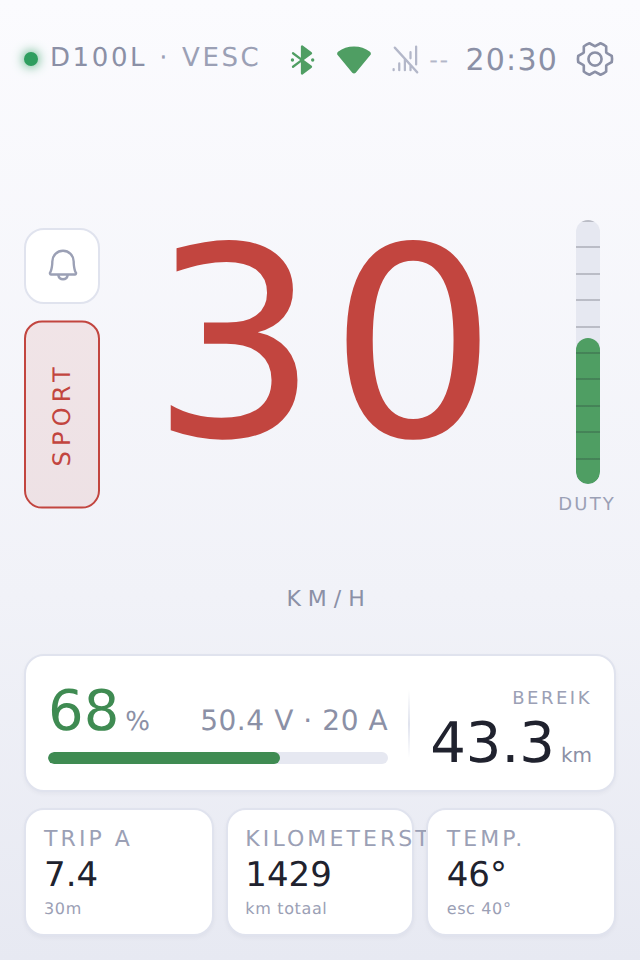
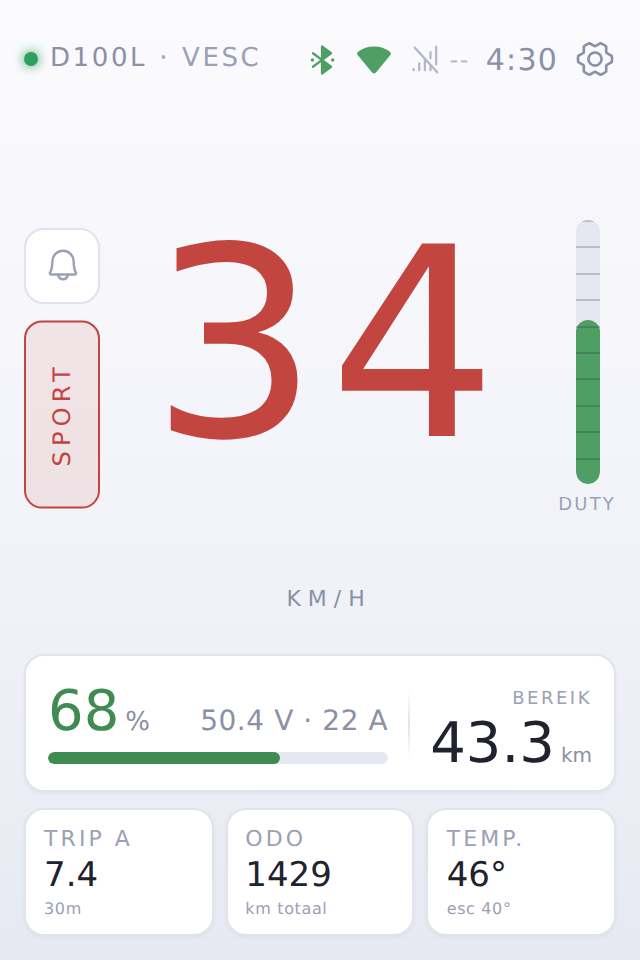
Kilometerstand wordt ODO, in alle vier de talen
Het label liep over de rand van zijn kaart. Die kaarten zijn 95 px breed en
op 11 px met .14em spatiëring past daar zo'n negen tekens in; "Kilometerstand"
is er veertien en "Compteur" viel ook al net buiten.

ODO is in alle vier de talen hetzelfde en past overal. De opmaak, de vier
vertalingen, de schermafdrukken en het stukje in de README dat het overlopen
nog uitlegde gaan mee.

diff --git a/pi/public/i18n.js b/pi/public/i18n.js
@@ -26,7 +26,7 @@ var T = {
   nl: {
     settings: 'Instellingen', connections: 'Verbindingen', limits: 'Temperatuurlimieten',
     language: 'Taal', accent: 'Accentkleur', units: 'Eenheden', power: 'Uitschakelen', tapToWake: 'Tik om te starten', reboot: 'Herstarten', shutdown: 'Uitschakelen', cancel: 'Annuleren', rebooting: 'Herstarten…', metric: 'Metrisch', imperial: 'Imperiaal', avgUse: 'Ø Verbruik', notifications: 'Meldingen', clear: 'Wissen', noAlerts: 'Geen meldingen — alles in orde.',
-    trip: 'Trip A', odo: 'Kilometerstand', temps: 'Temp.', kmTotal: 'totaal', range: 'Bereik', charging: 'Opladen', chargeAmp: 'Laadstroom', timeLeft: 'Resterend', gainRate: 'Winst', chargeFull: 'Volledig geladen', tapClose: 'Tik om te sluiten',
+    trip: 'Trip A', odo: 'ODO', temps: 'Temp.', kmTotal: 'totaal', range: 'Bereik', charging: 'Opladen', chargeAmp: 'Laadstroom', timeLeft: 'Resterend', gainRate: 'Winst', chargeFull: 'Volledig geladen', tapClose: 'Tik om te sluiten',
     speedDetail: 'Snelheidsmeting', current: 'Huidig', topSpeed: 'Maximum', avgSpeed: 'Gemiddeld', holdToReset: 'Resetten', releaseToReset: 'Loslaten annuleert…',
     scan: 'Scan', scanning: 'Zoeken…', connected: 'Verbonden', strong: 'sterk', medium: 'matig', weak: 'zwak', paired: 'gekoppeld', nearby: 'dichtbij', audio: 'audio',
     motor: 'Motor', controller: 'VESC / controller', battery: 'Accu', now: 'Nu',
@@ -42,7 +42,7 @@ var T = {
   en: {
     settings: 'Settings', connections: 'Connections', limits: 'Temperature limits',
     language: 'Language', accent: 'Accent colour', units: 'Units', power: 'Power off', tapToWake: 'Tap to wake', reboot: 'Reboot', shutdown: 'Shutdown', cancel: 'Cancel', rebooting: 'Rebooting…', metric: 'Metric', imperial: 'Imperial', avgUse: 'Ø Use', notifications: 'Notifications', clear: 'Clear', noAlerts: 'No faults — all systems nominal.',
-    trip: 'Trip A', odo: 'Odometer', temps: 'Temps', kmTotal: 'total', range: 'Range', charging: 'Charging', chargeAmp: 'Charge current', timeLeft: 'Time left', gainRate: 'Gain', chargeFull: 'Fully charged', tapClose: 'Tap to close',
+    trip: 'Trip A', odo: 'ODO', temps: 'Temps', kmTotal: 'total', range: 'Range', charging: 'Charging', chargeAmp: 'Charge current', timeLeft: 'Time left', gainRate: 'Gain', chargeFull: 'Fully charged', tapClose: 'Tap to close',
     speedDetail: 'Speed readout', current: 'Current', topSpeed: 'Top speed', avgSpeed: 'Average', holdToReset: 'Reset', releaseToReset: 'Release cancels…',
     scan: 'Scan', scanning: 'Scanning…', connected: 'Connected', strong: 'strong', medium: 'fair', weak: 'weak', paired: 'paired', nearby: 'nearby', audio: 'audio',
     motor: 'Motor', controller: 'VESC / controller', battery: 'Battery', now: 'Now',
@@ -59,7 +59,7 @@ var T = {
     settings: 'Réglages', connections: 'Connexions', limits: 'Limites de température',
     language: 'Langue', accent: 'Couleur d’accent', units: 'Unités', power: 'Éteindre', tapToWake: 'Toucher pour démarrer', reboot: 'Redémarrer', shutdown: 'Éteindre', cancel: 'Annuler', rebooting: 'Redémarrage…', metric: 'Métrique', imperial: 'Impérial', avgUse: 'Ø Conso.', notifications: 'Notifications', clear: 'Effacer',
     noAlerts: 'Aucun défaut — tout est normal.',
-    trip: 'Trajet A', odo: 'Compteur', temps: 'Temp.', kmTotal: 'au total', range: 'Autonomie', charging: 'Charge', chargeAmp: 'Courant de charge', timeLeft: 'Restant', gainRate: 'Gain', chargeFull: 'Charge complète', tapClose: 'Toucher pour fermer',
+    trip: 'Trajet A', odo: 'ODO', temps: 'Temp.', kmTotal: 'au total', range: 'Autonomie', charging: 'Charge', chargeAmp: 'Courant de charge', timeLeft: 'Restant', gainRate: 'Gain', chargeFull: 'Charge complète', tapClose: 'Toucher pour fermer',
     speedDetail: 'Mesure de vitesse', current: 'Actuelle', topSpeed: 'Maximale', avgSpeed: 'Moyenne', holdToReset: 'Réinitialiser', releaseToReset: 'Relâcher annule…',
     scan: 'Scan', scanning: 'Recherche…', connected: 'Connecté', strong: 'fort', medium: 'moyen', weak: 'faible', paired: 'appairé', nearby: 'à proximité', audio: 'audio',
     motor: 'Moteur', controller: 'VESC / contrôleur', battery: 'Batterie', now: 'Actuel',
@@ -76,7 +76,7 @@ var T = {
     settings: 'Einstellungen', connections: 'Verbindungen', limits: 'Temperaturgrenzen',
     language: 'Sprache', accent: 'Akzentfarbe', units: 'Einheiten', power: 'Ausschalten', tapToWake: 'Tippen zum Starten', reboot: 'Neustart', shutdown: 'Ausschalten', cancel: 'Abbrechen', rebooting: 'Neustart…', metric: 'Metrisch', imperial: 'Imperial', avgUse: 'Ø Verbrauch', notifications: 'Meldungen', clear: 'Löschen',
     noAlerts: 'Keine Fehler — alles in Ordnung.',
-    trip: 'Trip A', odo: 'Kilometerstand', temps: 'Temp.', kmTotal: 'gesamt', range: 'Reichweite', charging: 'Laden', chargeAmp: 'Ladestrom', timeLeft: 'Restzeit', gainRate: 'Zuwachs', chargeFull: 'Voll geladen', tapClose: 'Tippen zum Schließen',
+    trip: 'Trip A', odo: 'ODO', temps: 'Temp.', kmTotal: 'gesamt', range: 'Reichweite', charging: 'Laden', chargeAmp: 'Ladestrom', timeLeft: 'Restzeit', gainRate: 'Zuwachs', chargeFull: 'Voll geladen', tapClose: 'Tippen zum Schließen',
     speedDetail: 'Geschwindigkeitsmessung', current: 'Aktuell', topSpeed: 'Höchstwert', avgSpeed: 'Durchschnitt', holdToReset: 'Zurücksetzen', releaseToReset: 'Loslassen bricht ab…',
     scan: 'Scan', scanning: 'Suche…', connected: 'Verbunden', strong: 'stark', medium: 'mittel', weak: 'schwach', paired: 'gekoppelt', nearby: 'in der Nähe', audio: 'Audio',
     motor: 'Motor', controller: 'VESC / Controller', battery: 'Akku', now: 'Jetzt',

diff --git a/pi/public/theme.css b/pi/public/theme.css
@@ -206,9 +206,10 @@ body[data-theme="night"] #modes .mode[data-mode="eco"].on{border-color:#4f9e63;b
   padding:8px 9px;box-shadow:var(--shadow);
   display:flex;flex-direction:column;min-width:0;
 }
-/* Geen afkapping: "KILOMETERSTAND" past niet in een kaart van 95 px en loopt
-   in het ontwerp gewoon een stukje over de rand. Dat is daar een keuze — het
-   woord blijft leesbaar en de kaartrand blijft waar hij hoort. */
+/* Geen afkapping. De kaarten zijn 95 px breed, dus er past ongeveer negen
+   tekens in dit label — vandaar ODO en niet "Kilometerstand". Loopt er toch
+   eens iets over de rand, zoals "Ø VERBRUIK" op de trip-kaart, dan is dat
+   beter dan een beletselteken: het woord blijft leesbaar. */
 #cards .card .micro{font-size:11px;letter-spacing:.14em}
 #cards .big{font-size:17px;line-height:1.1;font-variant-numeric:tabular-nums;margin-top:3px}
 #cards .sub{font-size:8px;color:var(--faint);margin-top:2px;letter-spacing:.04em}

diff --git a/pi/public/index.html b/pi/public/index.html
@@ -124,7 +124,7 @@
         <span class="sub" id="tripsub">0m</span>
       </button>
       <div class="card">
-        <span class="micro" data-t="odo">Kilometerstand</span>
+        <span class="micro" data-t="odo">ODO</span>
         <span class="big" id="odo">0</span>
         <span class="sub"><span id="odounit">km</span> <span data-t="kmTotal">totaal</span></span>
       </div>

diff --git a/pi/tools/page.html b/pi/tools/page.html
@@ -78,7 +78,7 @@
         <span class="sub" id="tripsub">0m</span>
       </button>
       <div class="card">
-        <span class="micro" data-t="odo">Kilometerstand</span>
+        <span class="micro" data-t="odo">ODO</span>
         <span class="big" id="odo">0</span>
         <span class="sub"><span id="odounit">km</span> <span data-t="kmTotal">totaal</span></span>
       </div>

diff --git a/pi/README.md b/pi/README.md
@@ -430,10 +430,11 @@ design and are worth knowing before you move something:
   off the screen. That is exactly what happened the first time.
 - **The keys** are ten per row on 296 px, so about 26 px wide, and 52 px tall.
   Narrow, but there's height to spare and you aim with your thumb vertically.
-- **KILOMETERSTAND** doesn't fit in a card of 95 px and runs over the edge a
-  little. That's in the design too, and it's the better of the two options —
-  clipping it with an ellipsis costs you the word, running over costs you
-  nothing.
+- **The card labels** get about nine characters at 11 px with `.14em` of
+  tracking. The design had "KILOMETERSTAND" there and it ran over the edge;
+  it's **ODO** now, in all four languages. Where something still overflows — the
+  trip card says "Ø VERBRUIK" when you tap it — running over beats an ellipsis,
+  because the word stays readable.
 
 ### The design environment
 
@@ -1005,9 +1006,11 @@ ontwerp en zijn goed om te weten voor je iets verschuift:
   van het scherm geduwd. Precies dat gebeurde de eerste keer.
 - **De toetsen** zijn er tien per rij op 296 px, dus zo'n 26 px breed, en 52 px
   hoog. Smal, maar er is hoogte over en met je duim mik je verticaal.
-- **KILOMETERSTAND** past niet in een kaart van 95 px en loopt een stukje over de
-  rand. Dat doet het in het ontwerp ook, en het is de beste van de twee opties —
-  afkappen met een beletselteken kost je het woord, overlopen kost je niets.
+- **De kaartlabels** hebben ruimte voor zo'n negen tekens op 11 px met `.14em`
+  spatiëring. In het ontwerp stond daar "KILOMETERSTAND" en dat liep over de
+  rand; het is nu **ODO**, in alle vier de talen. Loopt er toch nog iets over —
+  de trip-kaart zegt "Ø VERBRUIK" als je erop tikt — dan is overlopen beter dan
+  afkappen, want het woord blijft leesbaar.
 
 ### De designomgeving
 
